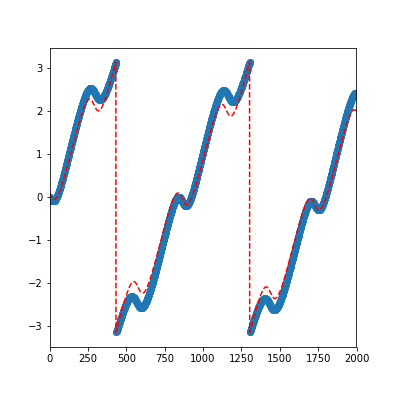
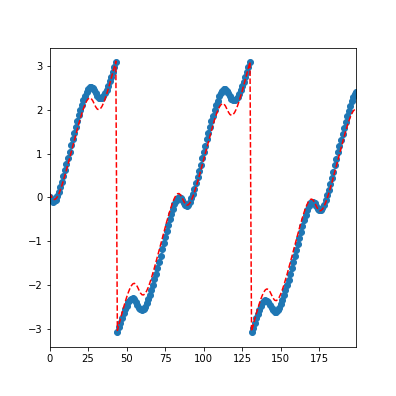
end day commit

diff --git a/produce_sample.py b/produce_sample.py
@@ -4,7 +4,7 @@ import Generate as gen
 from Transformations import make_time_series
 
 n_sample = 10
-n_sim = 1000000
+n_sim = 20000
 n_view = 10
 
 n_steps = n_sim / n_view
@@ -14,8 +14,8 @@ s = gen.System()
 #s.force = s.force_gravity
 s.force = s.force_single_sun
 
-s.add_body(x=[50., 0.], v=[0., 0.1/np.sqrt(0.5)], m=0.00001)
-s.add_body(x=[100., 0.], v=[0., 0.10], m=0.00001)
+s.add_body(x=[49., 0.], v=[0., np.sqrt(0.0205)], m=0.00001)
+s.add_body(x=[105., 0.], v=[0., 0.105], m=0.00001)
 s.simulate(n_sim)
 s.view(0, n_view)
 
@@ -27,7 +27,7 @@ s.view(0, n_view)
 phis = s.get_phi(1)
 time = np.arange(len(phis)) * n_view
 data = pd.DataFrame({'time': time, 'phi': phis})\
-    .to_csv('test_angles_perfect_circle_nview10_n1M.csv',
+    .to_csv('test_angles_perturbed_nview10_n20k.csv',
             columns=['time', 'phi'],
             index=False)
 
